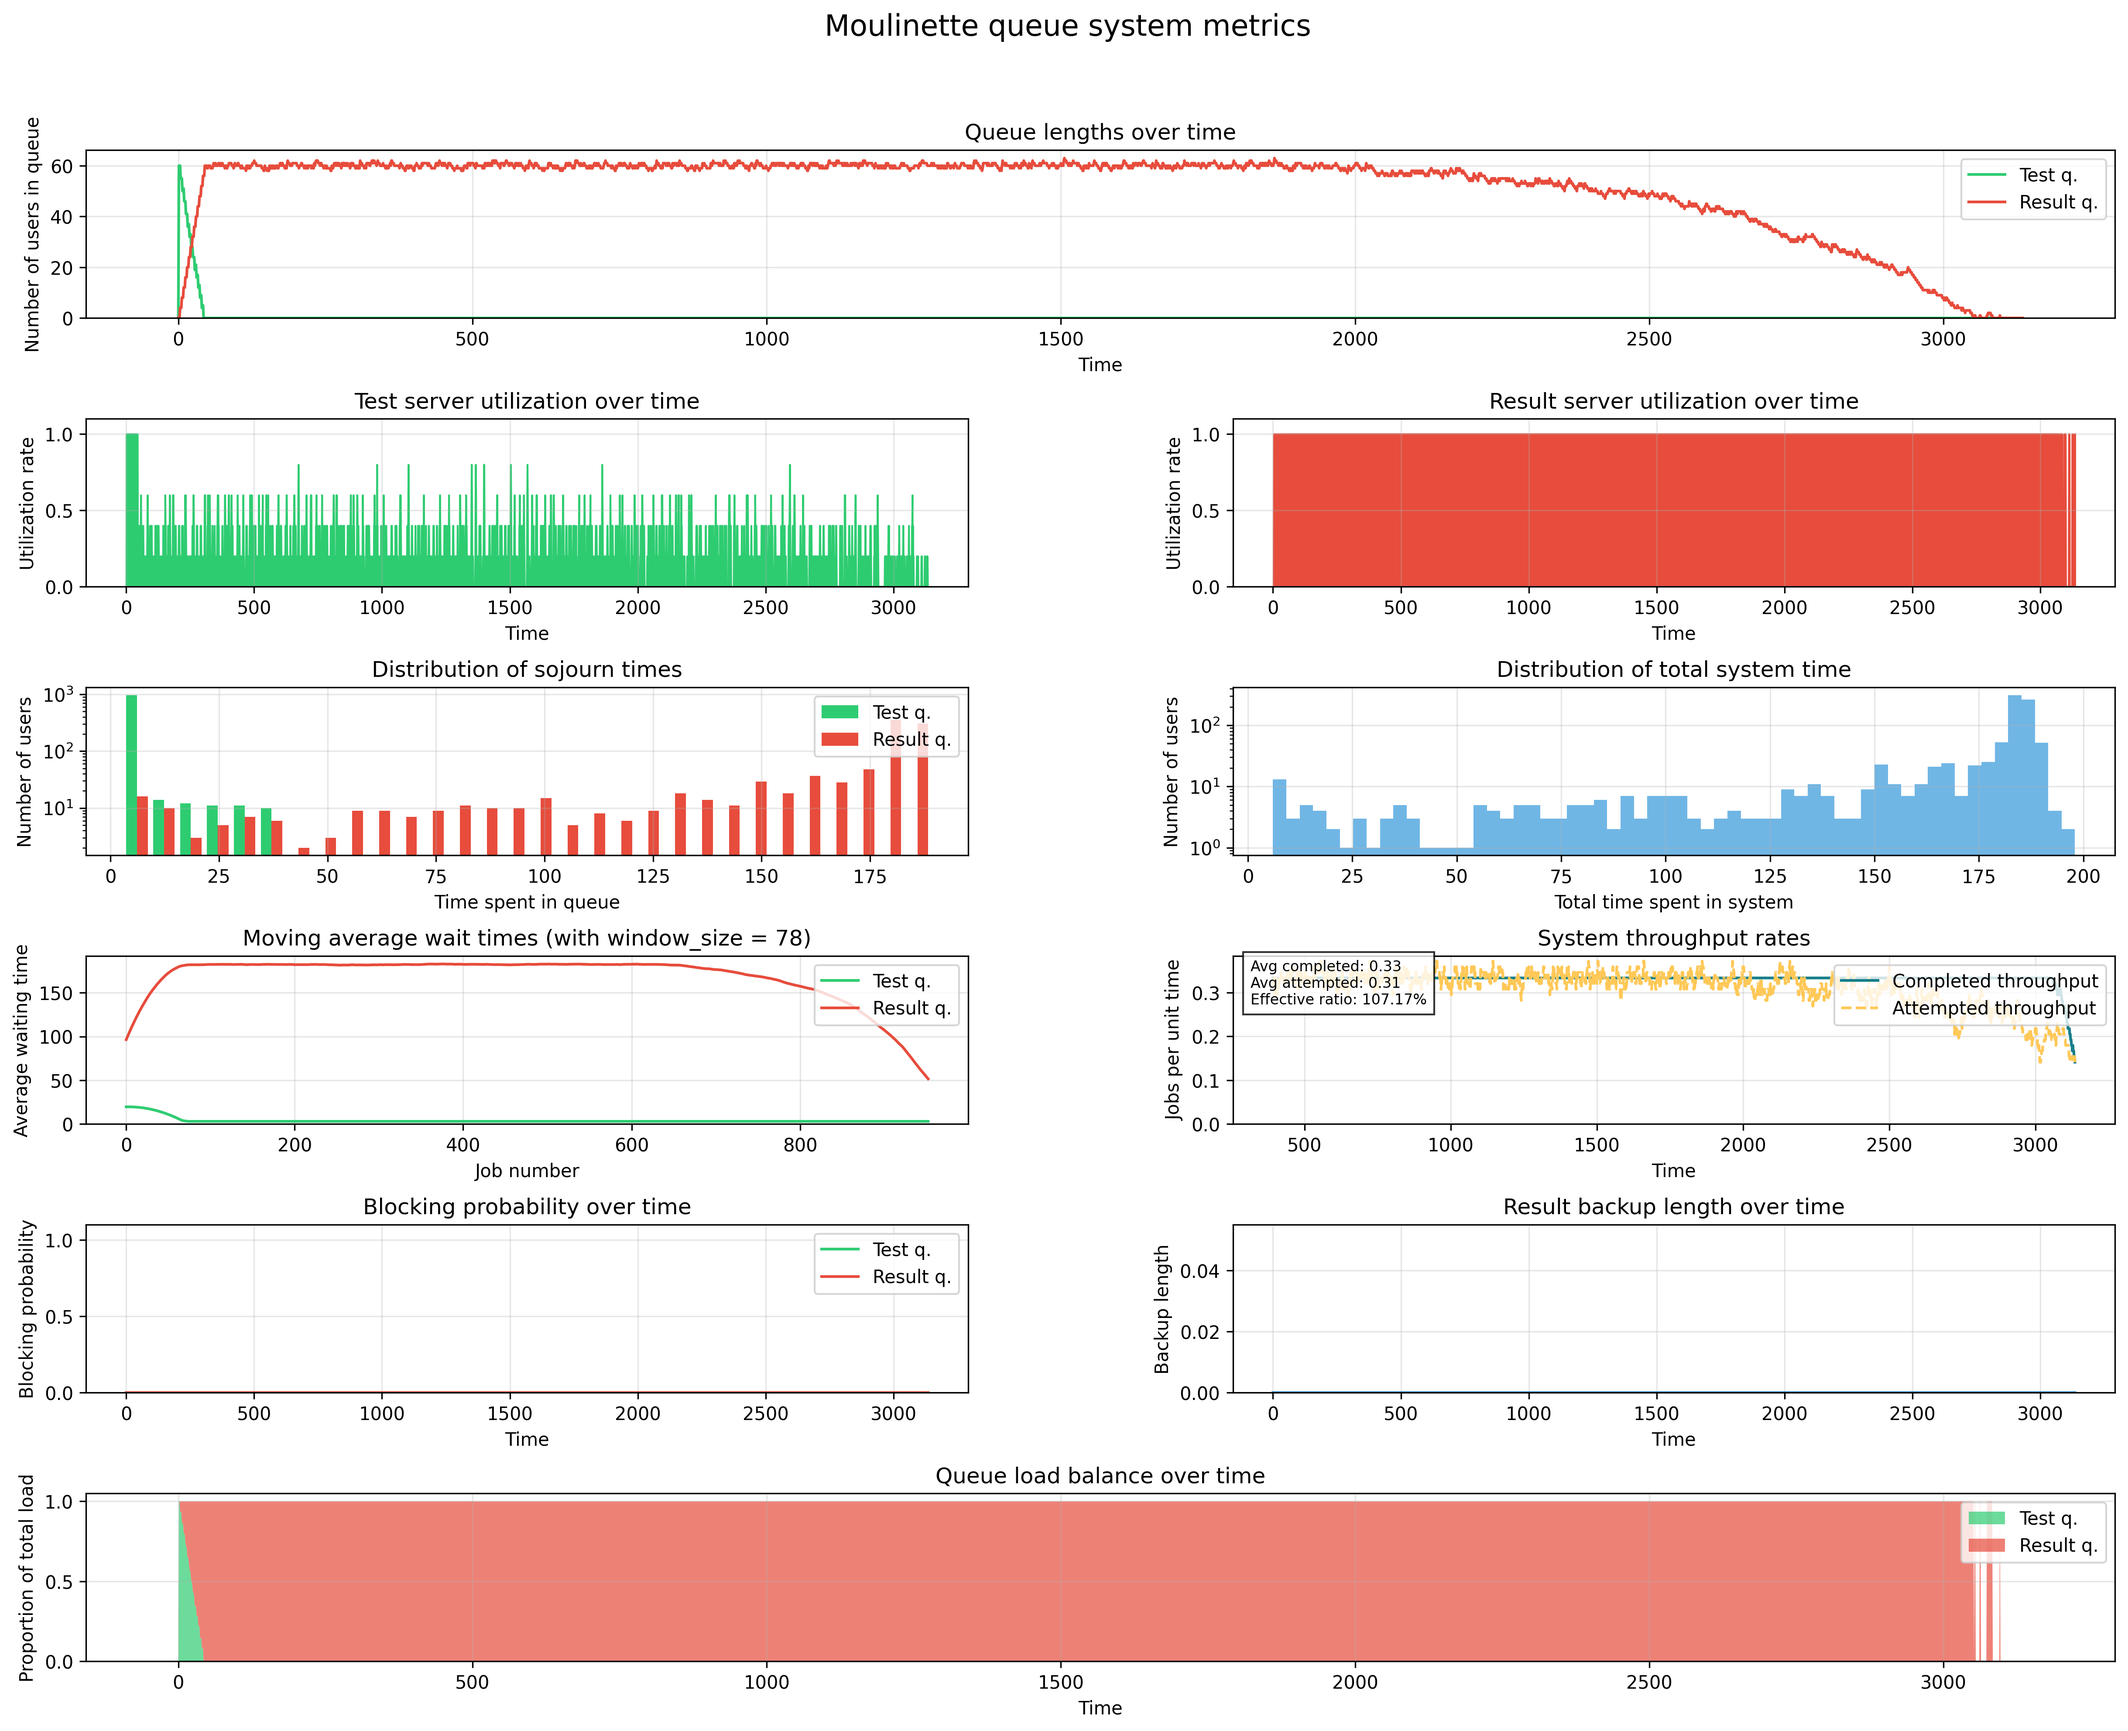
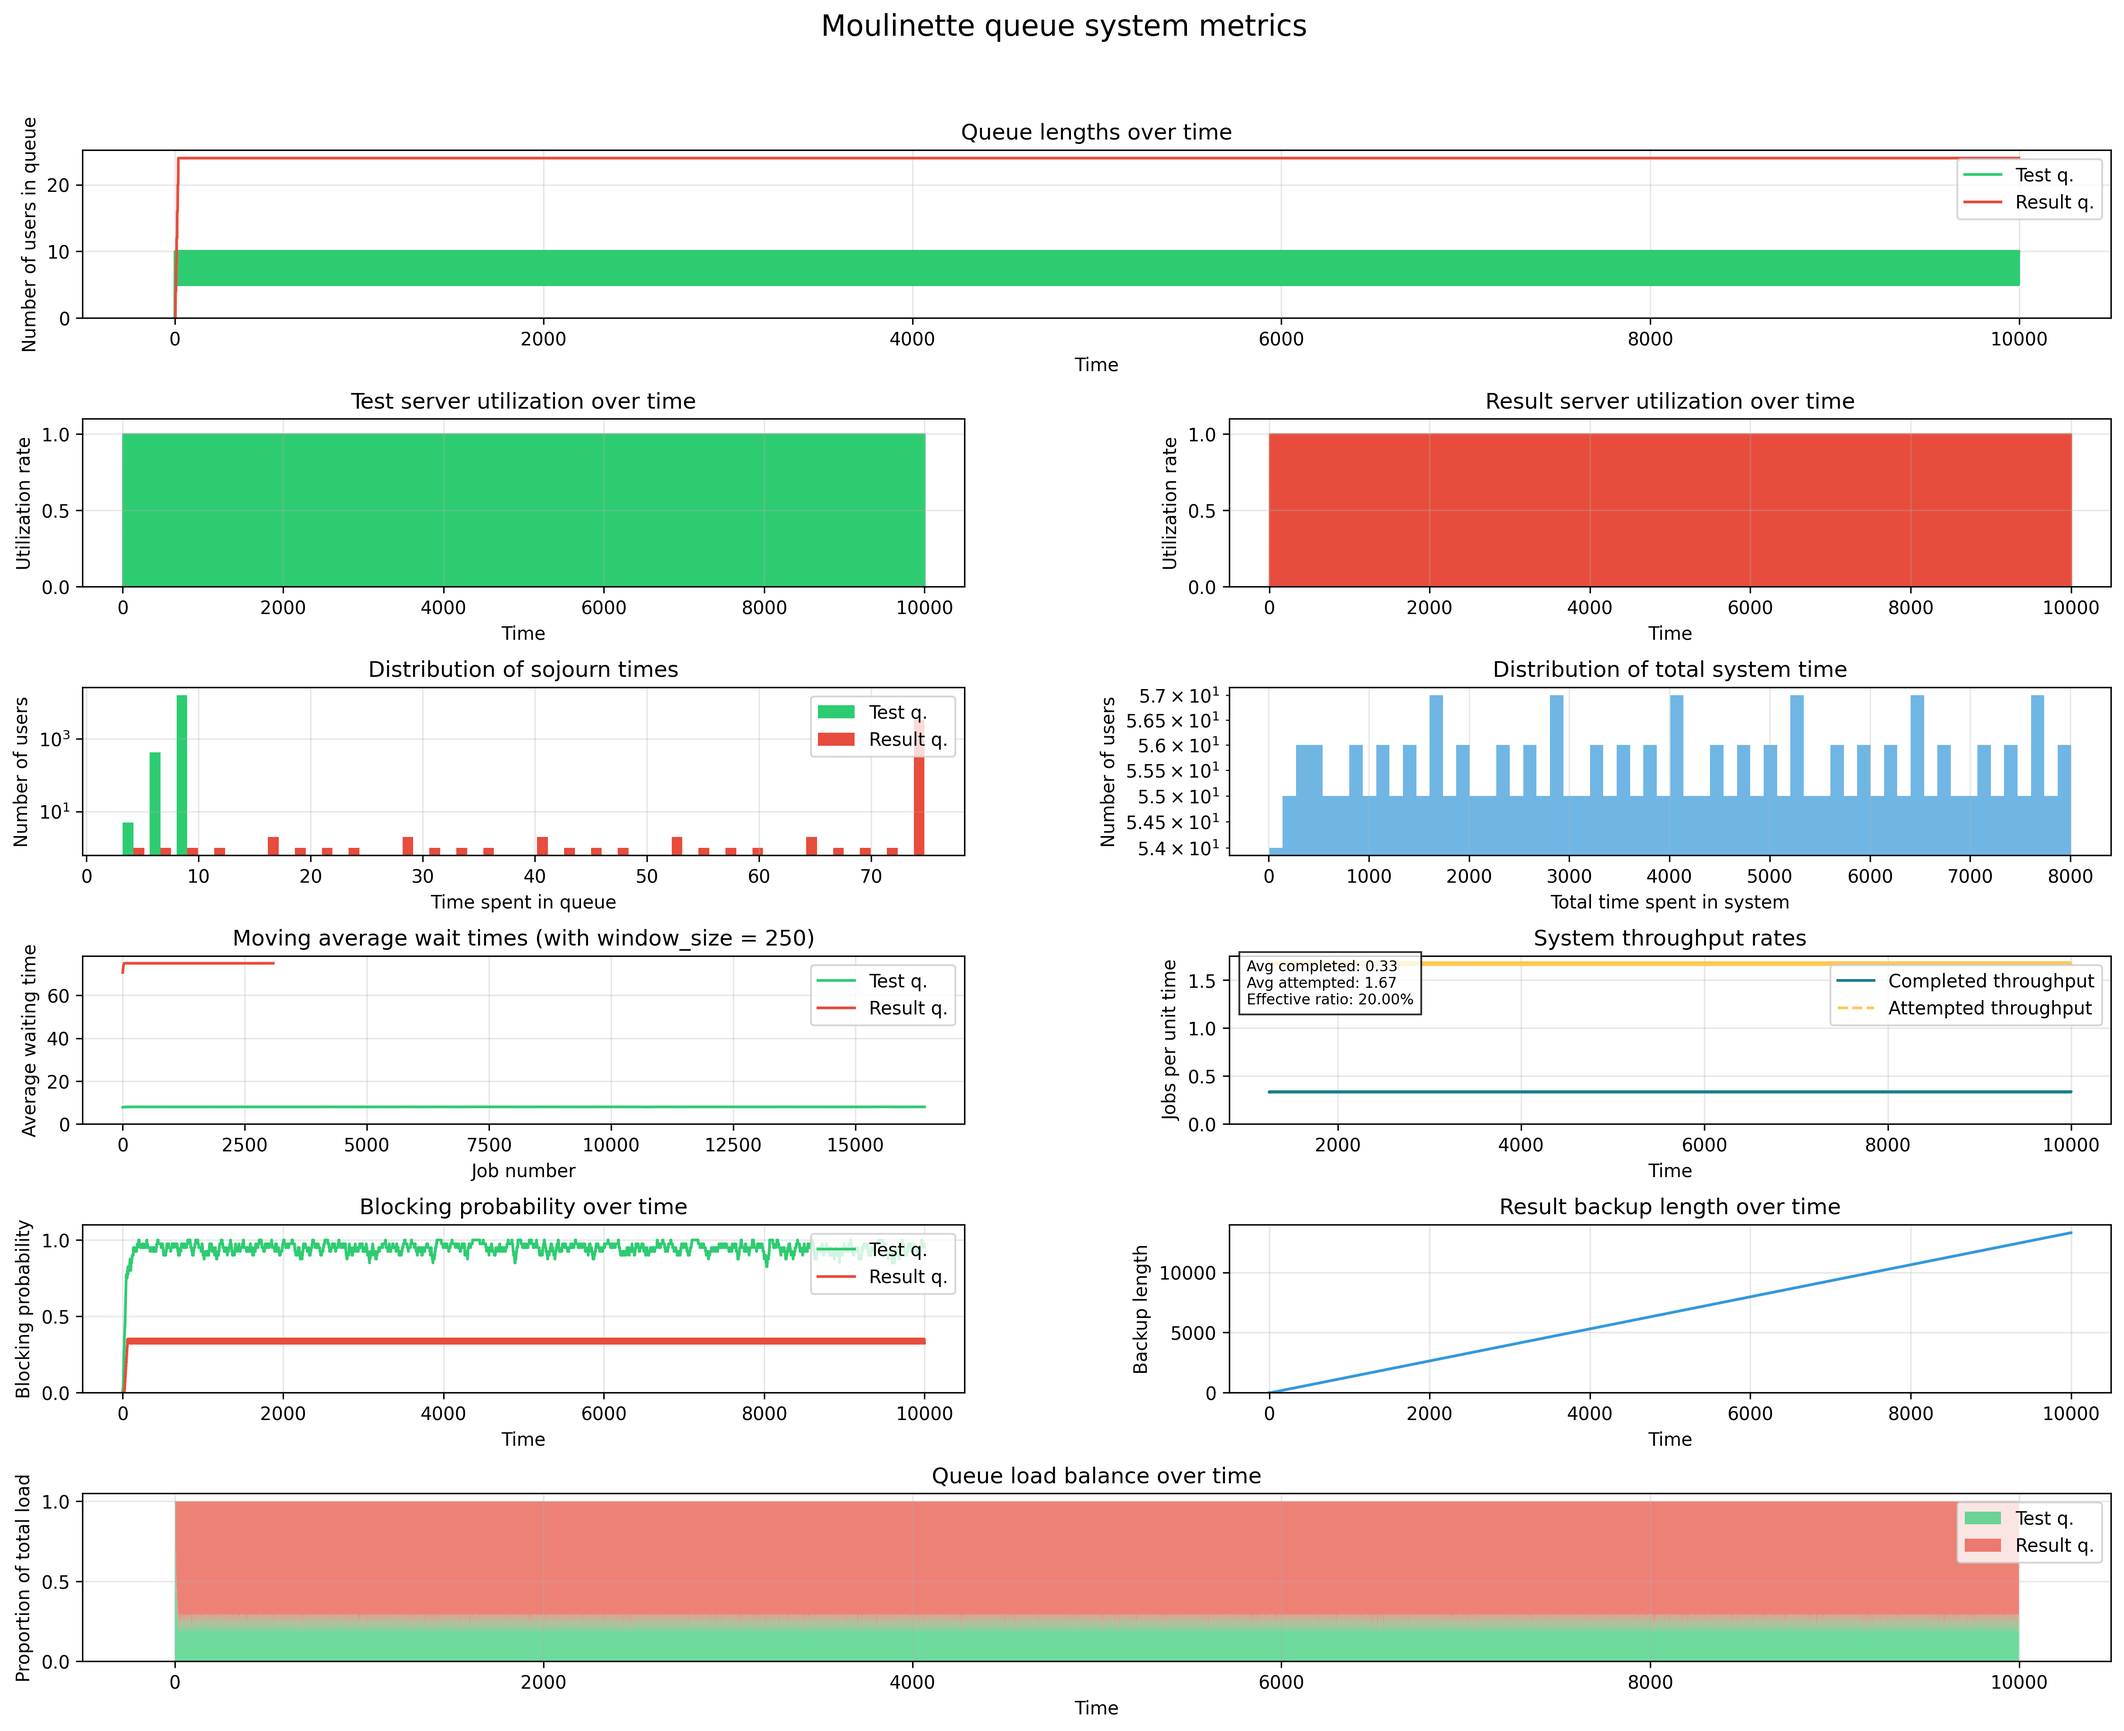
[master] fix: queue sizes and until

diff --git a/channels_dams/channelsdams.py b/channels_dams/channelsdams.py
@@ -76,7 +76,7 @@ class ChannelsAndDams(WaterfallMoulinetteFiniteBackup):
 
             # check si ING et blocage actif
             if self.block_option and user.promo == "ING" and self.is_blocked:
-                print(f"{commit} : blocked by ING regulation.")
+                print(f"{user} : blocked by ING regulation.")
                 yield self.env.timeout(random.randint(1, 3))
                 continue
 
@@ -101,14 +101,16 @@ class ChannelsAndDams(WaterfallMoulinetteFiniteBackup):
 
             # métriques queue test
             self.metrics.record_test_queue_entry(user_id, current_time)
-            print(f"{commit} : enters the test queue.")
 
             # fifo serveur test
+            print(f"{commit} : enters the test queue.")
+            yield self.test_queue.put(user)
             with self.test_server.request() as test_request:
                 yield test_request
                 print(f"{commit} : starts testing.")
                 yield self.env.timeout(self.process_time)
                 print(f"{commit} : finishes testing.")
+                yield self.test_queue.get(lambda x: x == user)
 
             self.metrics.record_test_queue_exit(user_id, self.env.now)
 
@@ -126,14 +128,16 @@ class ChannelsAndDams(WaterfallMoulinetteFiniteBackup):
 
             # métriques queue résultat
             self.metrics.record_result_queue_entry(user_id, self.env.now)
-            print(f"{commit} : enters the result queue.")
 
             # fifo serveur d'envoi
+            print(f"{commit} : enters the result queue.")
+            yield self.result_queue.put(user)
             with self.result_server.request() as result_request:
                 yield result_request
                 print(f"{commit} : starts result processing.")
                 yield self.env.timeout(self.result_time)
                 print(f"{commit} : finishes result processing.")
+                yield self.result_queue.get(lambda x: x == user)
 
             self.metrics.record_result_queue_exit(user_id, self.env.now)
 

diff --git a/waterfall/backup.py b/waterfall/backup.py
@@ -1,4 +1,3 @@
-import simpy
 import random
 
 from .finite import WaterfallMoulinetteFinite
@@ -114,14 +113,16 @@ class WaterfallMoulinetteFiniteBackup(WaterfallMoulinetteFinite):
 
             # métriques queue test
             self.metrics.record_test_queue_entry(user_id, current_time)
-            print(f"{commit} : enters the test queue.")
 
             # fifo serveur test
+            print(f"{commit} : enters the test queue.")
+            yield self.test_queue.put(user)
             with self.test_server.request() as test_request:
                 yield test_request
                 print(f"{commit} : starts testing.")
                 yield self.env.timeout(self.process_time)
                 print(f"{commit} : finishes testing.")
+                yield self.test_queue.get(lambda x: x == user)
 
             self.metrics.record_test_queue_exit(user_id, self.env.now)
 
@@ -139,14 +140,16 @@ class WaterfallMoulinetteFiniteBackup(WaterfallMoulinetteFinite):
 
             # métriques queue résultat
             self.metrics.record_result_queue_entry(user_id, self.env.now)
-            print(f"{commit} : enters the result queue.")
 
             # fifo serveur d'envoi
+            print(f"{commit} : enters the result queue.")
+            yield self.result_queue.put(user)
             with self.result_server.request() as result_request:
                 yield result_request
                 print(f"{commit} : starts result processing.")
                 yield self.env.timeout(self.result_time)
                 print(f"{commit} : finishes result processing.")
+                yield self.result_queue.get(lambda x: x == user)
 
             self.metrics.record_result_queue_exit(user_id, self.env.now)
 

diff --git a/waterfall/finite.py b/waterfall/finite.py
@@ -74,14 +74,16 @@ class WaterfallMoulinetteFinite(WaterfallMoulinetteInfinite):
 
             # métriques queue test
             self.metrics.record_test_queue_entry(user_id, current_time)
-            print(f"{commit} : enters the test queue.")
 
             # fifo serveur test
+            print(f"{commit} : enters the test queue.")
+            yield self.test_queue.put(user)
             with self.test_server.request() as test_request:
                 yield test_request
                 print(f"{commit} : starts testing.")
                 yield self.env.timeout(self.process_time)
                 print(f"{commit} : finishes testing.")
+                yield self.test_queue.get(lambda x: x == user)
 
             self.metrics.record_test_queue_exit(user_id, self.env.now)
 
@@ -94,14 +96,16 @@ class WaterfallMoulinetteFinite(WaterfallMoulinetteInfinite):
 
             # métriques queue résultat
             self.metrics.record_result_queue_entry(user_id, self.env.now)
-            print(f"{commit} : enters the result queue.")
 
             # fifo serveur d'envoi
+            print(f"{commit} : enters the result queue.")
+            yield self.result_queue.put(user)
             with self.result_server.request() as result_request:
                 yield result_request
                 print(f"{commit} : starts result processing.")
                 yield self.env.timeout(self.result_time)
                 print(f"{commit} : finishes result processing.")
+                yield self.result_queue.get(lambda x: x == user)
 
             self.metrics.record_result_queue_exit(user_id, self.env.now)
 
